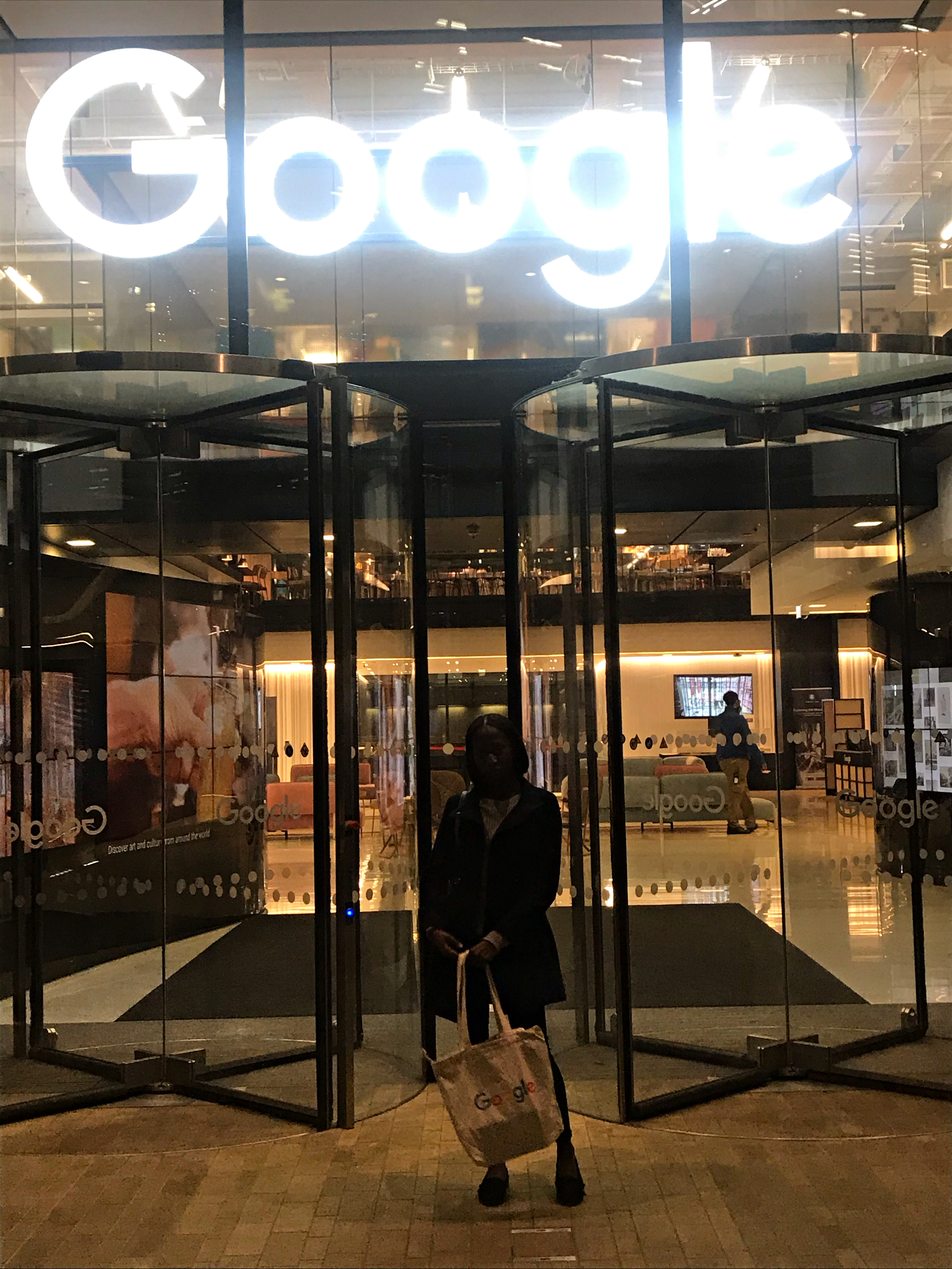
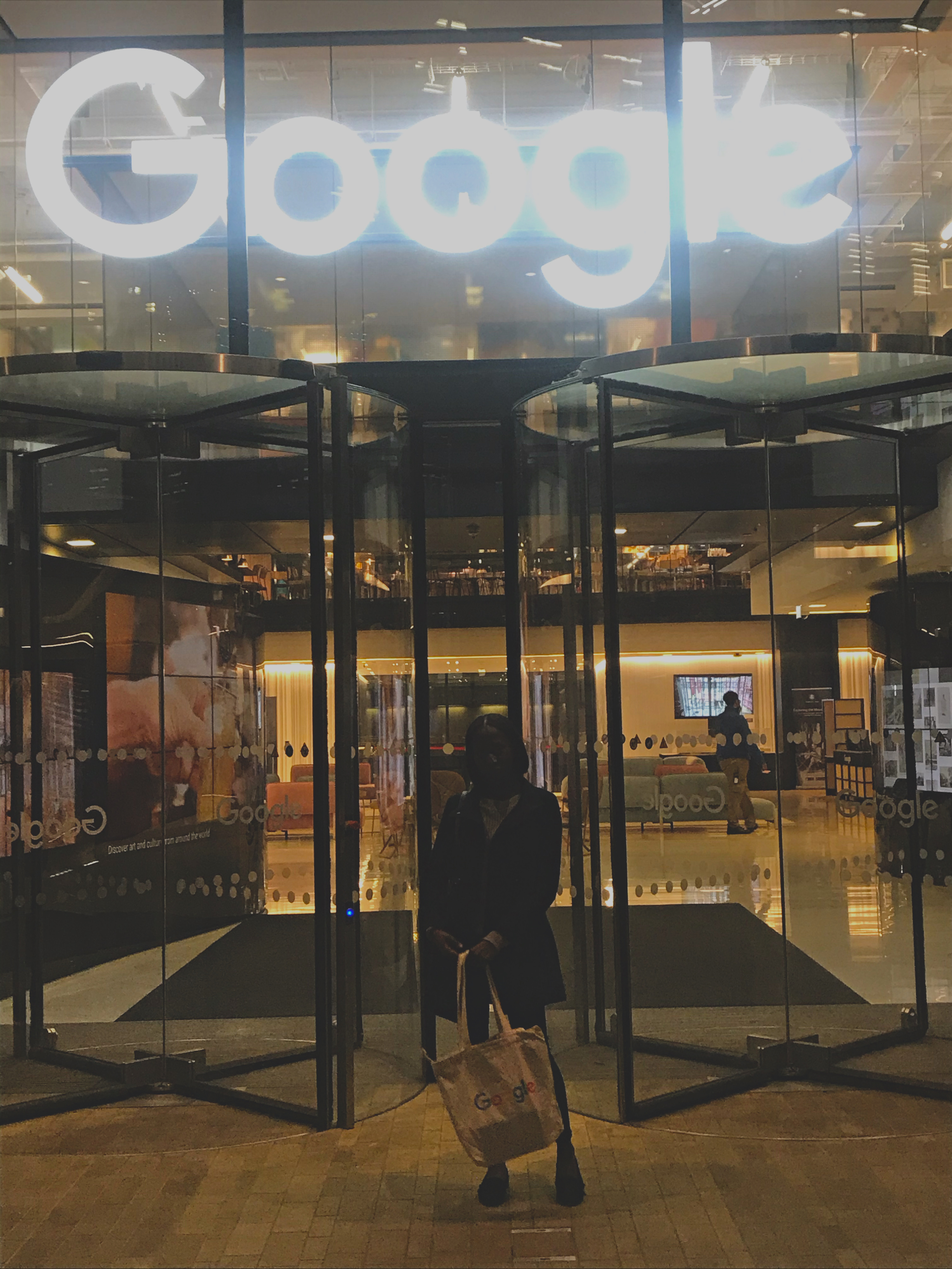
floated twitter pic right, edited google pic - made brighter

diff --git a/templates/experience.html b/templates/experience.html
@@ -19,14 +19,14 @@
     <div class="content" id="experience-content">
         <div class="timeline">
             <div class="container c3">
-                <h3 class="100daysofcode-name">#100DaysOfCode</h3>
+                <h3 class="daysofcode-name">#100DaysOfCode</h3>
                 <h6>Nov 2019</h6>
             </div>
             <div class="container c2">
                 <h3 class="hackgirlsummer-name">Hack Girl Summer</h3>
                 <h6>Jun 2020</h6>
             </div>
-            <div class="container c1">
+            <div class="container c1" style="display: none">
                 <h3 class="siliconvalley-name">Silicon Valley</h3>
                 <h6>Sep 2020</h6>
             </div>
@@ -34,12 +34,13 @@
         <div class="timeline-content">
             <div class="tl-content daysofcode">
                 <h2>#100DaysOfCode</h2>
-                <p><a href='https://www.codefirstgirls.org.uk/learners/'>CodeFirst: Girls'</a> web development courses was where I had my first introduction itnto the tech industry. 
+                <img src="/static/images/twitter.jpeg" class="twitter-img"><br/>
+                <p><a href='https://www.codefirstgirls.org.uk/learners/'>CodeFirst: Girls</a>' web development courses was where I had my first introduction itnto the tech industry. 
                     100daysofcode
-                - cfg = intro into industry
-                - cfg annual conference - eyes opened
-                - started 100 days of code 
-                - Personal goals: 1..., 2..., 3... .
+                - cfg = intro into industry<br/>
+                - cfg annual conference - eyes opened<br/>
+                - started 100 days of code <br/>
+                - Personal goals: 1..., 2..., 3... .<br/>
                     What I did to achieve the goals
                     went to tech events, networked within the community, build my skills
                     html, css, python, js, daily coding challenges
@@ -49,7 +50,7 @@
                 
                 Highlight
                 </p>
-                <img src="/static/images/twitter.jpeg" class="twitter-img"><br/>
+                
                 <img src="/static/images/google.jpeg" class="google-img"><br/>
                 <img src="/static/images/microsoft.jpeg" class="microsoft-img">
             </div>
@@ -96,22 +97,22 @@
 <script>
     $(document).ready(function() {
         $('.tl-content').hide();  
-        $('.100daysofcode-name').click(function() {
-            $('.100daysofcode').show(400);
+        $('.daysofcode-name').click(function() {
+            $('.daysofcode').show(400);
             $('.hackgirlsummer').hide(400);
             $('.siliconvalley').hide(400);
             $('.timeline-content').css("height", "180vh");
             $('#experience-content').css("height", "200vh");
         });
         $('.hackgirlsummer-name').click(function() {
-            $('.100daysofcode').hide(400);
+            $('.daysofcode').hide(400);
             $('.hackgirlsummer').show(400);
             $('.siliconvalley').hide(400);
             $('.timeline-content').css("height", "200vh");
             $('#experience-content').css("height", "220vh");
         });
         $('.siliconvalley-name').click(function() {
-            $('.100daysofcode').hide(400);
+            $('.daysofcode').hide(400);
             $('.hackgirlsummer').hide(400);
             $('.siliconvalley').show(400);
             $('.timeline-content').css("height", "180vh");

diff --git a/static/css/site.css b/static/css/site.css
@@ -250,19 +250,35 @@ img {
     width: 20vh;
 }*/
 
+.daysofcode img {
+    margin: 1vh;
+}
+
+.daysofcode p {
+    margin: 0;
+}
+
+.daysofcode a {
+    text-decoration: none;
+    color: rgb(182, 182, 182);  
+}
+
+.daysofcode a:hover {
+    color: orange;
+}
+
 .twitter-img {
     height: 40vh;
     width: 60vh;
+    float: right;
+    margin-right: 0;
 }
 
 .google-img, .microsoft-img {
     height: 60vh;
-    width: 50vh;
+    width: 45vh;
 }
 
-.daysofcode p {
-    float: left;
-}
 
 
 
